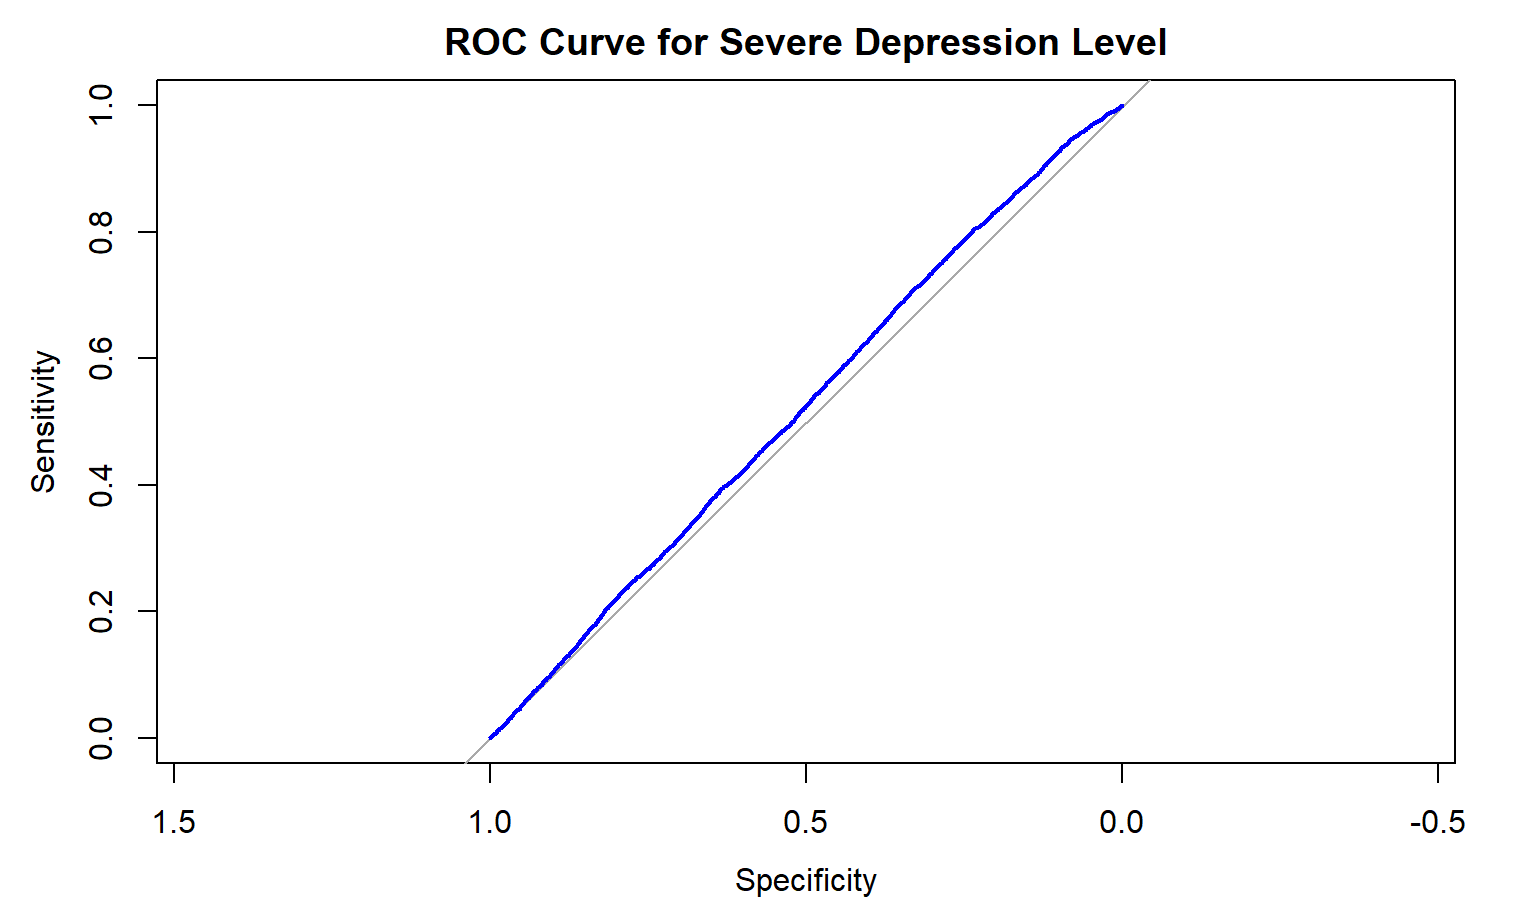
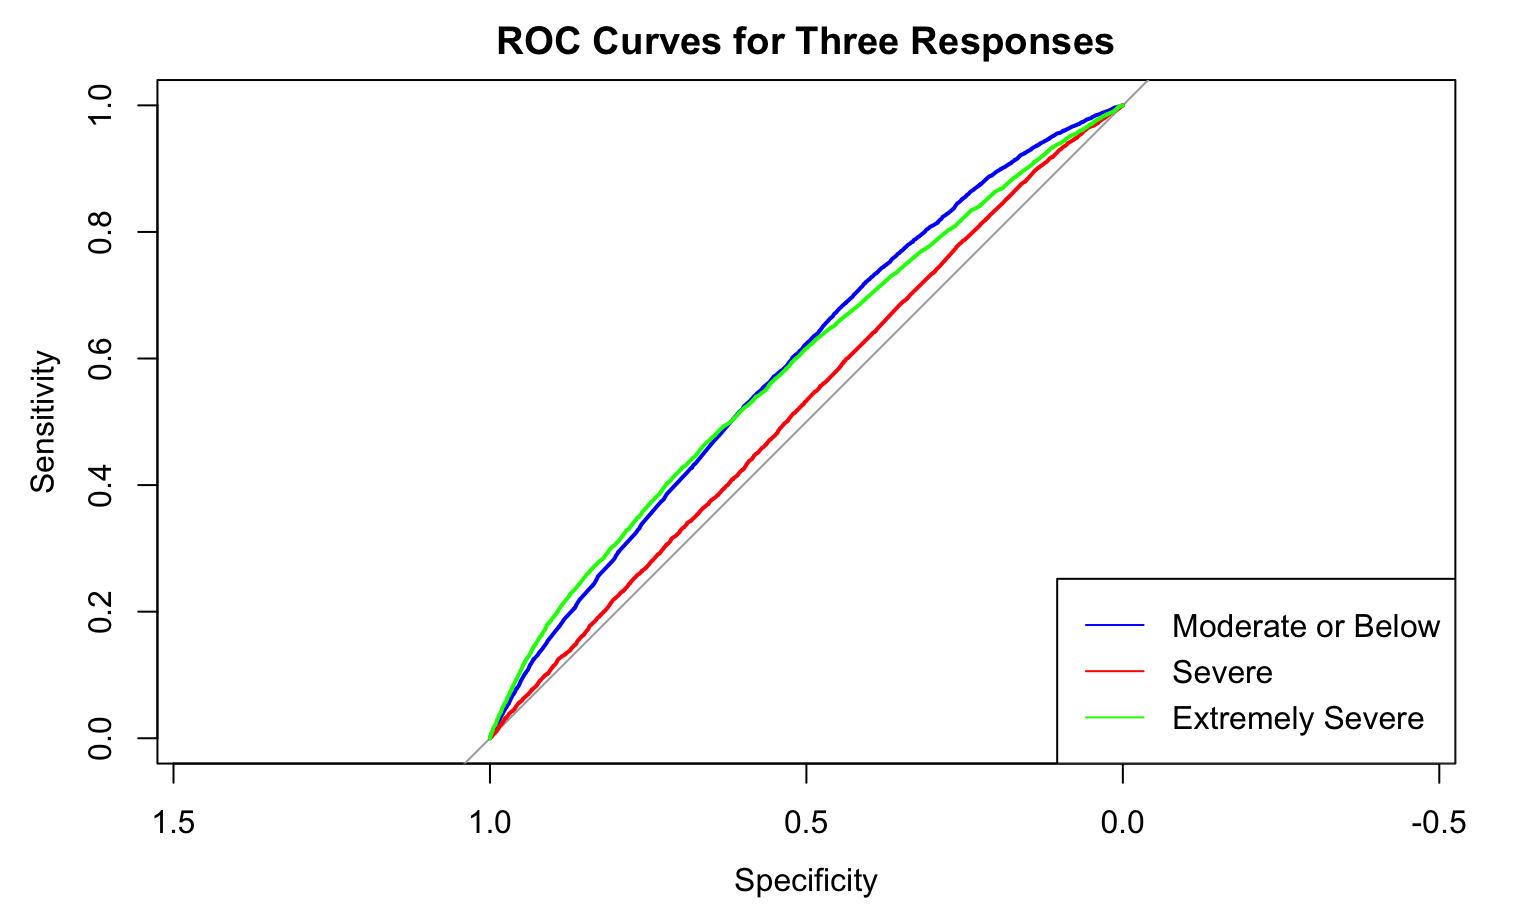
regression done

diff --git a/logit_models.html b/logit_models.html
@@ -11,7 +11,7 @@
 
 <meta name="author" content="Huanyu Chen, Shaolei Ma" />
 
-<meta name="date" content="2023-12-03" />
+<meta name="date" content="2023-12-04" />
 
 <title>Logistic Model</title>
 
@@ -299,7 +299,7 @@ $(document).ready(function () {
 
 <h1 class="title toc-ignore">Logistic Model</h1>
 <h4 class="author">Huanyu Chen, Shaolei Ma</h4>
-<h4 class="date">2023-12-03</h4>
+<h4 class="date">2023-12-04</h4>
 
 </div>
 
@@ -536,7 +536,7 @@ dass_fit_df |&gt; summary()</code></pre>
 ## marriedPreviously married   -8.04e-02      8.10  3      0.044 *  
 ## ---
 ## Signif. codes:  0 &#39;***&#39; 0.001 &#39;**&#39; 0.01 &#39;*&#39; 0.05 &#39;.&#39; 0.1 &#39; &#39; 1</code></pre>
-<p>Because the overall <span class="math inline">\(p value &lt;
+<p>Because the overall <span class="math inline">\(p-value &lt;
 0.001\)</span>, we reject the null hypothesis and conclude that the
 parallel assumption is not met.</p>
 <p>To meet the parallel assumption, we try the following two
@@ -650,10 +650,107 @@ class="math inline">\(p = 0.067 &gt; 0.05\)</span>).</p>
 ## Residual Deviance: 60223.12 
 ## AIC: 60261.12</code></pre>
 <p>The estimated model can be written as: <span
-class="math display">\[logit(\hat P(Depression\: Level\leq
-Severe))=-0.69+0.18*I(country=CA)+0.20*I(country=GB)\\-0.04*I(country=ID)-0.19*I(country=MY)+0.13*I(country=PH)+0.11*I(country=Other)\\-0.10*I(gender=Male)+0.38*I(gender=Other)-0.03*age+0.23*I(orientation=Asexual)\\+0.40*I(orientation=Bisexual)+0.30*I(orientation=Homosexual)+0.22*I(orientation=Other)\\-0.16*I(race=Asian)-0.09*I(race=Black)+0.11*I(race=Native\:American)-0.10*I(race=Other)\]</span></p>
-<p><span class="math display">\[logit(\hat P(Depression\: Level\leq
-Extremely\:Severe))=0.01+0.18*I(country=CA)+0.20*I(country=GB)\\-0.04*I(country=ID)-0.19*I(country=MY)+0.13*I(country=PH)+0.11*I(country=Other)\\-0.10*I(gender=Male)+0.38*I(gender=Other)-0.03*age+0.23*I(orientation=Asexual)\\+0.40*I(orientation=Bisexual)+0.30*I(orientation=Homosexual)+0.22*I(orientation=Other)\\-0.16*I(race=Asian)-0.09*I(race=Black)+0.11*I(race=Native\:American)-0.10*I(race=Other)\]</span></p>
+class="math display">\[\begin{align*}
+\text{logit}(\hat P(\text{Depression Level} \leq \text{Severe})) &amp;=
+-0.69 \\
+&amp;+ 0.18 \times I(\text{country} = \text{CA}) \\
+&amp;+ 0.20 \times I(\text{country} = \text{GB}) \\
+&amp;- 0.04 \times I(\text{country} = \text{ID}) \\
+&amp;- 0.19 \times I(\text{country} = \text{MY}) \\
+&amp;+ 0.13 \times I(\text{country} = \text{PH}) \\
+&amp;+ 0.11 \times I(\text{country} = \text{Other}) \\
+&amp;- 0.10 \times I(\text{gender} = \text{Male}) \\
+&amp;+ 0.38 \times I(\text{gender} = \text{Other}) \\
+&amp;- 0.03 \times \text{age} \\
+&amp;+ 0.23 \times I(\text{orientation} = \text{Asexual}) \\
+&amp;+ 0.40 \times I(\text{orientation} = \text{Bisexual}) \\
+&amp;+ 0.30 \times I(\text{orientation} = \text{Homosexual}) \\
+&amp;+ 0.22 \times I(\text{orientation} = \text{Other}) \\
+&amp;- 0.16 \times I(\text{race} = \text{Asian}) \\
+&amp;- 0.09 \times I(\text{race} = \text{Black}) \\
+&amp;+ 0.11 \times I(\text{race} = \text{Native American}) \\
+&amp;- 0.10 \times I(\text{race} = \text{Other})
+\end{align*}\]</span></p>
+<p><span class="math display">\[\begin{align*}
+\text{logit}(\hat P(\text{Depression Level} \leq \text{Extremely
+Severe})) &amp;= 0.01 \\
+&amp;+ 0.18 \times I(\text{country} = \text{CA}) \\
+&amp;+ 0.20 \times I(\text{country} = \text{GB}) \\
+&amp;- 0.04 \times I(\text{country} = \text{ID}) \\
+&amp;- 0.19 \times I(\text{country} = \text{MY}) \\
+&amp;+ 0.13 \times I(\text{country} = \text{PH}) \\
+&amp;+ 0.11 \times I(\text{country} = \text{Other}) \\
+&amp;- 0.10 \times I(\text{gender} = \text{Male}) \\
+&amp;+ 0.38 \times I(\text{gender} = \text{Other}) \\
+&amp;- 0.03 \times \text{age} \\
+&amp;+ 0.23 \times I(\text{orientation} = \text{Asexual}) \\
+&amp;+ 0.40 \times I(\text{orientation} = \text{Bisexual}) \\
+&amp;+ 0.30 \times I(\text{orientation} = \text{Homosexual}) \\
+&amp;+ 0.22 \times I(\text{orientation} = \text{Other}) \\
+&amp;- 0.16 \times I(\text{race} = \text{Asian}) \\
+&amp;- 0.09 \times I(\text{race} = \text{Black}) \\
+&amp;+ 0.11 \times I(\text{race} = \text{Native American}) \\
+&amp;- 0.10 \times I(\text{race} = \text{Other})
+\end{align*}\]</span></p>
+</div>
+<div id="effect-of-countries-on-depression-levels"
+class="section level2">
+<h2>Effect of Countries on Depression Levels</h2>
+<pre class="r"><code># Extract coefficients for countries
+pos_country = str_starts(names(dass_fit1$coefficients), &quot;country&quot;)
+
+country_coefficients &lt;- data.frame(
+  country = substr(names(dass_fit1$coefficients)[pos_country], 8, 20),
+  coefficient = dass_fit1$coefficients[pos_country]
+  )
+
+# Plotting coefficients for countries
+ggplot(country_coefficients, aes(x = country, y = coefficient)) +
+  geom_bar(stat = &quot;identity&quot;, fill = &quot;skyblue&quot;, color = &quot;black&quot;) +
+  labs(title = &quot;Effect of Countries on Depression Levels&quot;,
+       x = &quot;Country&quot;, y = &quot;Coefficient&quot;)</code></pre>
+<p><img src="logit_models_files/figure-html/unnamed-chunk-7-1.png" width="90%" /></p>
+</div>
+<div id="effect-of-races-on-depression-levels" class="section level2">
+<h2>Effect of Races on Depression Levels</h2>
+<pre class="r"><code># Extract coefficients for races
+pos_race &lt;- str_starts(names(dass_fit1$coefficients), &quot;race&quot;)
+
+race_coefficients &lt;- data.frame(
+  race = substr(names(dass_fit1$coefficients)[pos_race], 5, 20),
+  coefficient = dass_fit1$coefficients[pos_race]
+)
+
+# Plotting coefficients for races
+ggplot(race_coefficients, aes(x = race, y = coefficient)) +
+  geom_bar(stat = &quot;identity&quot;, fill = &quot;pink&quot;, color = &quot;black&quot;) +
+  labs(
+    title = &quot;Effect of Races on Depression Levels&quot;,
+    x = &quot;Race&quot;,
+    y = &quot;Coefficient&quot;
+  )</code></pre>
+<p><img src="logit_models_files/figure-html/unnamed-chunk-8-1.png" width="90%" /></p>
+</div>
+<div id="effect-of-orientations-on-depression-levels"
+class="section level2">
+<h2>Effect of Orientations on Depression Levels</h2>
+<pre class="r"><code># Extract coefficients for orientations
+pos_orientation &lt;- str_starts(names(dass_fit1$coefficients), &quot;orientation&quot;)
+
+orientation_coefficients &lt;- data.frame(
+  orientation = substr(names(dass_fit1$coefficients)[pos_orientation], 12, 20),
+  coefficient = dass_fit1$coefficients[pos_orientation]
+)
+
+# Plotting coefficients for orientations
+ggplot(orientation_coefficients, aes(x = orientation, y = coefficient)) +
+  geom_bar(stat = &quot;identity&quot;, fill = &quot;palegreen&quot;, color = &quot;black&quot;) +
+  labs(
+    title = &quot;Effect of Orientations on Depression Levels&quot;,
+    x = &quot;Orientation&quot;,
+    y = &quot;Coefficient&quot;
+  )</code></pre>
+<p><img src="logit_models_files/figure-html/unnamed-chunk-9-1.png" width="90%" /></p>
 </div>
 <div id="interpretation" class="section level2">
 <h2>Interpretation</h2>
@@ -815,48 +912,48 @@ severe depression level is lower than that of White participants,
 holding constant all other variables.</li>
 </ul>
 </div>
-<div id="graphs-based-on-current-regression-models"
+<div id="receiver-operating-characteristic-curve-for-depression-level"
 class="section level2">
-<h2>Graphs Based On Current Regression Models</h2>
-<pre class="r"><code>library(pROC)
-
-# Predicting probabilities for all classes
+<h2>Receiver Operating Characteristic Curve for Depression Level</h2>
+<pre class="r"><code># Predicting probabilities for all classes
 predicted_probs &lt;- predict(dass_fit1, type = &quot;probs&quot;)
 
 # Extracting the response variable
 response &lt;- ifelse(dass_fit_df$depression_level == &quot;Moderate or Below&quot;, 1,
                    ifelse(dass_fit_df$depression_level == &quot;Severe&quot;, 2, 3))
 
-# Calculating ROC curve for Severe (class 2)
-roc_obj &lt;- roc(as.numeric(response == 1), predicted_probs[, &quot;Moderate or Below&quot;])
+# Calculating ROC curves for three responses
+roc_obj_1 &lt;- roc(as.numeric(response == 1), predicted_probs[, &quot;Moderate or Below&quot;])
+roc_obj_2 &lt;- roc(as.numeric(response == 2), predicted_probs[, &quot;Severe&quot;])
+roc_obj_3 &lt;- roc(as.numeric(response == 3), predicted_probs[, &quot;Extremely severe&quot;])
 
-# Plotting ROC curve
-plot(roc_obj, col = &quot;blue&quot;, main = &quot;ROC Curve for Severe Depression Level&quot;)</code></pre>
-<p><img src="logit_models_files/figure-html/unnamed-chunk-8-1.png" width="90%" /></p>
-<pre class="r"><code># Extract coefficients for countries
-pos_country = str_starts(names(dass_fit1$coefficients), &quot;country&quot;)
-
-country_coefficients &lt;- data.frame(
-  country = substr(names(dass_fit1$coefficients)[pos_country], 8, 20),
-  coefficient = dass_fit1$coefficients[pos_country]
-)
-
-# Plotting coefficients for countries
-ggplot(country_coefficients, aes(x = country, y = coefficient)) +
-  geom_bar(stat = &quot;identity&quot;, fill = &quot;skyblue&quot;, color = &quot;black&quot;) +
-  labs(title = &quot;Effect of Countries on Depression Levels&quot;, x = &quot;Country&quot;, y = &quot;Coefficient&quot;)</code></pre>
-<p><img src="logit_models_files/figure-html/unnamed-chunk-9-1.png" width="90%" /></p>
-<pre class="r"><code>library(effects)
-
-# Create a data frame with the predictor values for visualization
-predictor_data &lt;- model.matrix(depression_level ~ country + gender + age + orientation + race, data = dass_fit_df)
+# Plotting ROC curves for three responses on the same graph
+plot(roc_obj_1, col = &quot;blue&quot;, main = &quot;ROC Curves for Three Responses&quot;)
+plot(roc_obj_2, col = &quot;red&quot;, add = TRUE)
+plot(roc_obj_3, col = &quot;green&quot;, add = TRUE)
+legend(&quot;bottomright&quot;,
+       legend = c(&quot;Moderate or Below&quot;, &quot;Severe&quot;, &quot;Extremely Severe&quot;),
+       col = c(&quot;blue&quot;, &quot;red&quot;, &quot;green&quot;), lty = 1)</code></pre>
+<p><img src="logit_models_files/figure-html/unnamed-chunk-11-1.png" width="90%" />
+According to this graph, the ROC curves for “Moderate or Below” and
+“Extremely Severe” are close to the top-left corner of the plot, showing
+a good model’s performance in these two categories. The performance on
+“Severe” may indicate that we need more data points that have a
+depression level of “Severe.”</p>
+</div>
+<div id="effects-of-predictors-on-depression-levels"
+class="section level2">
+<h2>Effects of Predictors on Depression Levels</h2>
+<pre class="r"><code># Create a data frame with the predictor values for visualization
+predictor_data &lt;- model.matrix(depression_level ~ country + gender + age
+                               + orientation + race, data = dass_fit_df)
 
 # Compute the effects
 effects &lt;- allEffects(dass_fit1, xlevels = list(predictor_data))
 
 # Plot the effects
 plot(effects, style = &quot;stacked&quot;)</code></pre>
-<p><img src="logit_models_files/figure-html/unnamed-chunk-10-1.png" width="90%" /></p>
+<p><img src="logit_models_files/figure-html/unnamed-chunk-12-1.png" width="90%" /></p>
 </div>
 <div id="limitations" class="section level2">
 <h2>Limitations</h2>

diff --git a/site_libs/navigation-1.1/codefolding.js b/site_libs/navigation-1.1/codefolding.js
@@ -31,7 +31,7 @@ window.initializeCodeFolding = function(show) {
     $(this).detach().appendTo(div);
 
     // add a show code button right above
-    var showCodeText = $('<span>' + (showThis ? 'Hide' : 'Code') + '</span>');
+    var showCodeText = $('<span>' + (showThis ? 'Hide' : 'Show') + '</span>');
     var showCodeButton = $('<button type="button" class="btn btn-default btn-xs btn-secondary btn-sm code-folding-btn pull-right float-right"></button>');
     showCodeButton.append(showCodeText);
     showCodeButton
@@ -57,7 +57,7 @@ window.initializeCodeFolding = function(show) {
     //   * Change text
     //   * add a class for intermediate states styling
     div.on('hide.bs.collapse', function () {
-      showCodeText.text('Code');
+      showCodeText.text('Show');
       showCodeButton.addClass('btn-collapsing');
     });
     div.on('hidden.bs.collapse', function () {
